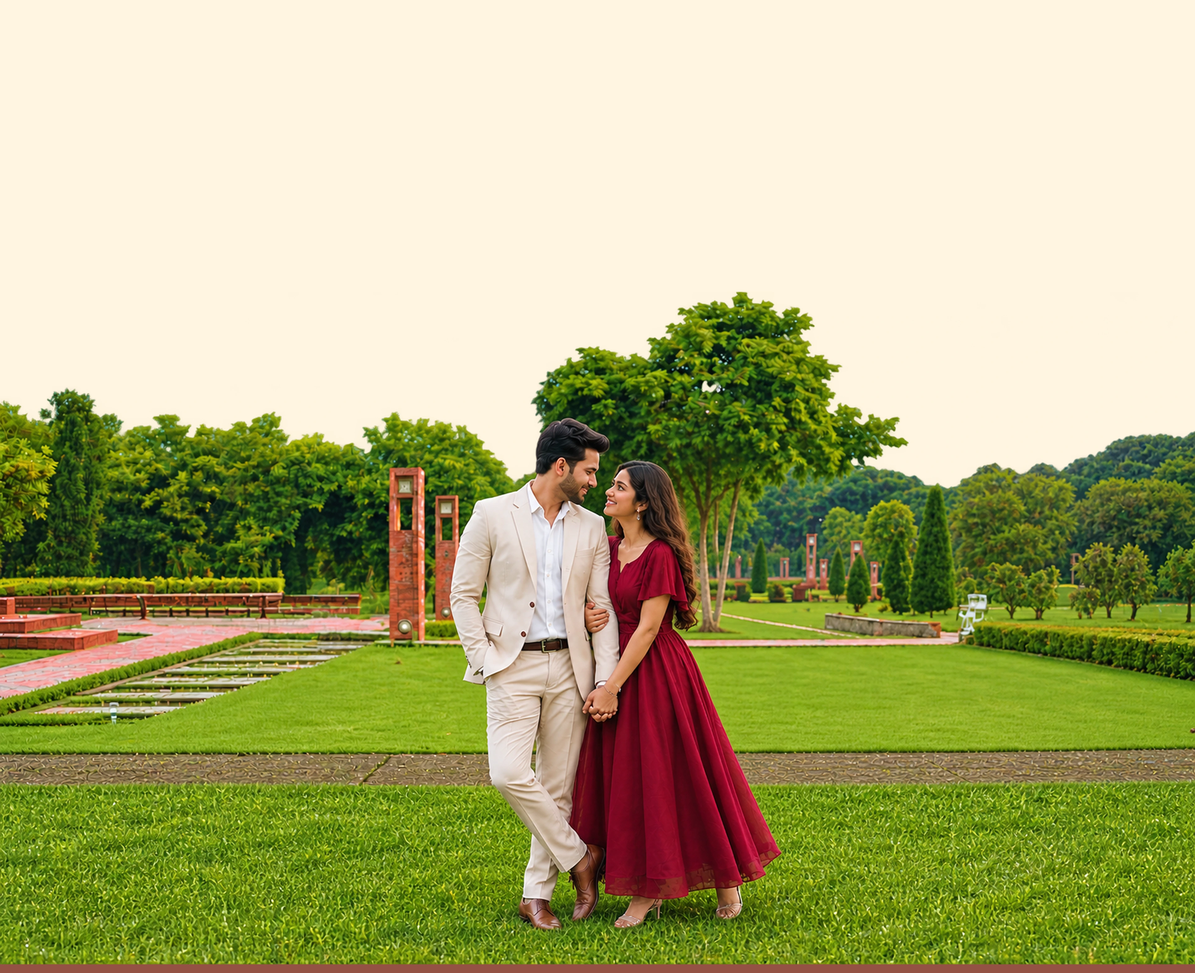
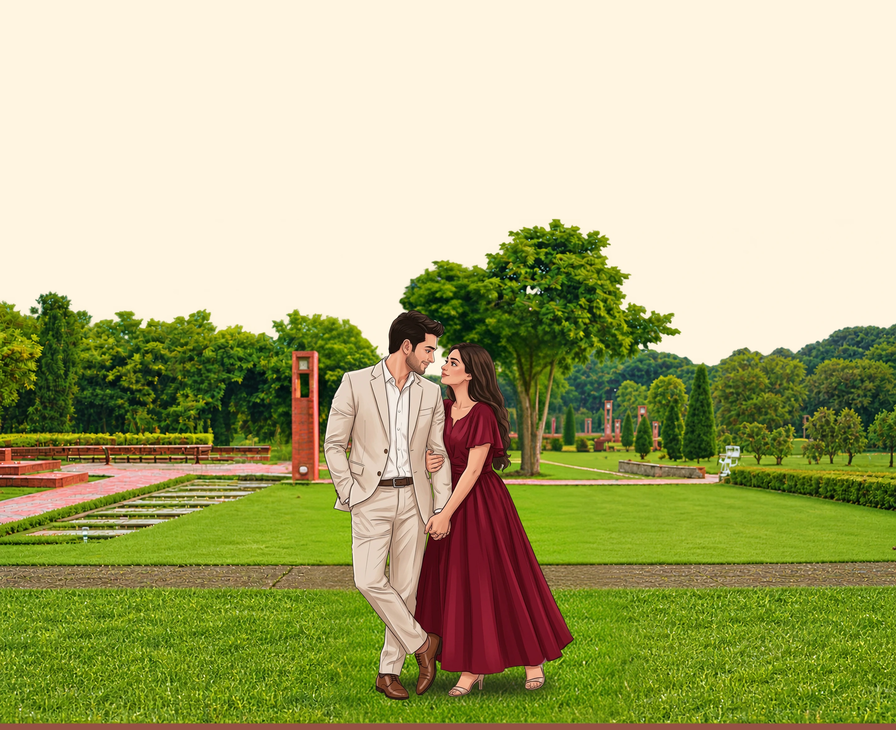
update images and content

Changed region(s): [[0.3125, 0.3734, 0.7188, 0.9957]]

diff --git a/app/components/CoupleIntro.jsx b/app/components/CoupleIntro.jsx
@@ -4,14 +4,17 @@ import RoseHeroTemp from "@/app/components/RoseHeroTemp";
 
 export default function CoupleIntro() {
   const events = [
-
     {
       title_ceremony: "Haldi",
       image: "/assets/haldi.webp",
       date: "Wednesday, November 25th 2026",
       time: "at 11:30 AM",
       venue: "Bel-La Monde",
-      venue_address: <>NH309, Ramnagar, Dhikuli, Garjiya, <br/> Uttarakhand 244715</>,
+      venue_address: (
+        <>
+          NH309, Ramnagar, Dhikuli, Garjiya, <br /> Uttarakhand 244715
+        </>
+      ),
       link: "https://maps.app.goo.gl/HRMYY5gNt4RnpmKn6",
     },
 
@@ -21,7 +24,11 @@ export default function CoupleIntro() {
       date: "Wednesday, November 25th 2026",
       time: "at 4:00 PM",
       venue: "Bel-La Monde",
-      venue_address: <>NH309, Ramnagar, Dhikuli, Garjiya, <br/> Uttarakhand 244715</>,
+      venue_address: (
+        <>
+          NH309, Ramnagar, Dhikuli, Garjiya, <br /> Uttarakhand 244715
+        </>
+      ),
       link: "https://maps.app.goo.gl/HRMYY5gNt4RnpmKn6",
     },
 
@@ -31,18 +38,25 @@ export default function CoupleIntro() {
       date: "Wednesday, November 25th 2026",
       time: "at 6:00 PM",
       venue: "Bel-La Monde",
-      venue_address: <>NH309, Ramnagar, Dhikuli, Garjiya, <br/> Uttarakhand 244715</>,
+      venue_address: (
+        <>
+          NH309, Ramnagar, Dhikuli, Garjiya, <br /> Uttarakhand 244715
+        </>
+      ),
       link: "https://maps.app.goo.gl/HRMYY5gNt4RnpmKn6",
     },
 
-    
     {
       title_ceremony: "Tika & Ghudchadi",
       image: "/assets/tika.webp",
       date: "Thursday, November 26th 2026",
       time: "at 10:00 AM",
       venue: "Bel-La Monde",
-      venue_address: <>NH309, Ramnagar, Dhikuli, Garjiya, <br/> Uttarakhand 244715</>,
+      venue_address: (
+        <>
+          NH309, Ramnagar, Dhikuli, Garjiya, <br /> Uttarakhand 244715
+        </>
+      ),
       link: "https://maps.app.goo.gl/HRMYY5gNt4RnpmKn6",
     },
 
@@ -52,7 +66,11 @@ export default function CoupleIntro() {
       date: "Thursday, November 26th 2026",
       time: "at 1:00 PM",
       venue: "Bel-La Monde",
-      venue_address: <>NH309, Ramnagar, Dhikuli, Garjiya, <br/> Uttarakhand 244715</>,
+      venue_address: (
+        <>
+          NH309, Ramnagar, Dhikuli, Garjiya, <br /> Uttarakhand 244715
+        </>
+      ),
       link: "https://maps.app.goo.gl/HRMYY5gNt4RnpmKn6",
     },
 
@@ -62,11 +80,13 @@ export default function CoupleIntro() {
       date: "Thursday, November 26th 2026",
       time: "at 5:00 PM",
       venue: "Bel-La Monde",
-      venue_address: <>NH309, Ramnagar, Dhikuli, Garjiya, <br/> Uttarakhand 244715</>,
+      venue_address: (
+        <>
+          NH309, Ramnagar, Dhikuli, Garjiya, <br /> Uttarakhand 244715
+        </>
+      ),
       link: "https://maps.app.goo.gl/HRMYY5gNt4RnpmKn6",
     },
-
-    
   ];
 
   return (
@@ -101,7 +121,8 @@ export default function CoupleIntro() {
               className="w-16 h-16 md:w-25 md:h-24 lg:w-49 lg:h-47 mt-2 lg:mt-4"
             />
             <h2 className="font-eb-garamond font-medium text-base md:text-2xl lg:text-3xl mt-2 md:mt-0 text-[#B35800]">
-              With the heavenly blessings of <br/> Late Smt Kamla Devi & Late Shri Gainda Lal Agarwal
+              With the heavenly blessings of <br /> Late Smt Kamla Devi & Late
+              Shri Gainda Lal Agarwal
             </h2>
             {/* <hr className="w-20 lg:w-26 lg:border-2 my-3 lg:my-4 border-[#B35800]" /> */}
             {/* <h2 className="font-eb-garamond font-medium text-xl md:text-3xl lg:text-[42px] text-[#B35800]">
@@ -109,17 +130,18 @@ export default function CoupleIntro() {
             </h2> */}
           </div>
           <div className="text-center mt-8">
-            <h2 className="font-playfair-display font-semibold text-3xl md:text-4xl lg:text-6xl leading-tight lg:tracking-wide tracking-wider text-[#B35800] italic">
+            {/* <h2 className="font-playfair-display font-semibold text-3xl md:text-4xl lg:text-6xl leading-tight lg:tracking-wide tracking-wider text-[#B35800] italic">
               Invite
-            </h2>
-            <p className="font-eb-garamond font-medium text-xl md:text-2xl lg:text-3xl mt-4 md:mt-6 text-[#B35800]">
-              You to join us for the wedding celebrations of
+            </h2> */}
+            <p className="font-eb-garamond font-medium text-xl md:text-2xl lg:text-3xl mt-4 md:mt-6 text-[#B35800] px-6 md:px-0">
+              We Invite you and your Family to join us for the wedding
+              celebrations of
             </p>
             <h2 className="font-eb-garamond font-medium text-center text-5xl md:text-6xl lg:text-[100px] mt-6 leading-8 md:leading-tight text-[#B35800]">
               Devansh
             </h2>
-             <h2 className="font-eb-garamond font-medium text-base md:text-2xl lg:text-3xl mt-2 md:mt-0 text-[#B35800]">
-             (Dr. Preeti Agarwal & Dr. T.C. Agarwal)
+            <h2 className="font-eb-garamond font-medium text-base md:text-2xl lg:text-3xl mt-2 md:mt-0 text-[#B35800]">
+              (Son of Dr. Preeti Agarwal & Dr. T.C. Agarwal)
             </h2>
             <h2 className="font-playfair-display font-medium text-5xl md:text-6xl lg:text-[100px] text-center mt-4 leading-tight text-[#B35800]">
               <span className="text-center mt-4 lg:mt-10 text-5xl md:text-6xl lg:text-[100px] leading-tight text-[#B35800] font-playfair-display">
@@ -129,10 +151,10 @@ export default function CoupleIntro() {
               Ishita
             </h2>
             <h2 className="font-eb-garamond font-medium text-base md:text-2xl lg:text-3xl mt-2 md:mt-0 text-[#B35800]">
-             (Mrs. Shalini Agarwal & Mr. Vivek Agarwal)
+              (Daughter of Mrs. Shalini Agarwal & Mr. Vivek Agarwal)
             </h2>
 
-{/* <p className="font-eb-garamond font-medium text-base md:text-xl lg:text-3xl mt-12 text-[#B35800]">
+            {/* <p className="font-eb-garamond font-medium text-base md:text-xl lg:text-3xl mt-12 text-[#B35800]">
               At the Marriott Jim Corbett
               <br/>
                <a
@@ -147,8 +169,6 @@ export default function CoupleIntro() {
             <p className="font-eb-garamond font-medium text-base md:text-xl lg:text-3xl mt-12 text-[#B35800]">
               On the following events
             </p>
-
-            
           </div>
 
           <div className="flex justify-center mt-15 md:mt-20">
@@ -158,7 +178,7 @@ export default function CoupleIntro() {
                   <img
                     src={event.image}
                     alt={event.venue}
-                    className="w-95 h-auto md:w-76 lg:w-80"
+                    className="w-80 h-auto md:w-76 lg:w-80"
                   />
 
                   <h2 className="font-playfair-display font-medium text-[36px] md:text-3xl lg:text-[42px] mt-2 md:mt-4 text-[#B35800]">
@@ -167,20 +187,39 @@ export default function CoupleIntro() {
                   <p className="font-eb-garamond font-medium md:mt-2 text-[#B35800] text-lg">
                     <span className="text-base">{event.date}</span> <br />
                     <span className="text-base"> {event.time} </span> <br />
-                    <span className="text-base uppercase"> {event.venue} </span> <br/>
+                    {/* <span className="text-base uppercase"> {event.venue} </span> <br/>
                     <span className="text-base uppercase"> {event.venue_address} </span> <br/>
                      <a
                     href={event.link}
                     className="font-eb-garamond font-medium text-[#B35800] underline text-lg md:text-sm mt-2"
                     target="_blank">
                     View Directions
-                  </a>
+                  </a> */}
                   </p>
-
-                  
                 </div>
               ))}
             </div>
+          </div>
+
+          <div className="flex justify-center items-center">
+            <p className="font-eb-garamond font-medium md:mt-10 text-[#B35800] text-lg text-center mt-10">
+              <h2 className="font-playfair-display font-medium text-[36px] md:text-3xl lg:text-[42px] mt-2 md:mt-4 text-[#B35800]">
+                Venue
+              </h2>
+              <span className="text-base uppercase">Bel-La Monde </span> <br />
+              <span className="text-base uppercase">
+                NH309, Ramnagar, Dhikuli, Garjiya, <br /> Uttarakhand
+                244715{" "}
+              </span>{" "}
+              <br />
+              <a
+                href="https://maps.app.goo.gl/HRMYY5gNt4RnpmKn6"
+                className="font-eb-garamond font-medium text-[#B35800] underline text-lg md:text-sm mt-2"
+                target="_blank"
+              >
+                View Directions
+              </a>
+            </p>
           </div>
         </div>
       </div>

diff --git a/app/components/CoupleMessage.jsx b/app/components/CoupleMessage.jsx
@@ -69,8 +69,8 @@ useEffect(() => {
 
   return (
     <div className="bg-[url('/assets/bg_three.webp')] bg-cover bg-no-repeat">
-      <div className="flex flex-col items-center h-640 md:h-770 lg:h-1200 3xl:h-1200">
-        <h2 className="font-playfair-display font-semibold text-base md:text-xl lg:text-[38px] text-center pt-12 md:pt-18 lg:pt-32 text-[#B35800]">
+      <div className="flex flex-col items-center h-500 md:h-550 lg:h-800 3xl:h-800">
+        {/* <h2 className="font-playfair-display font-semibold text-base md:text-xl lg:text-[38px] text-center pt-12 md:pt-18 lg:pt-32 text-[#B35800]">
           INTRODUCING
         </h2>
         <h2
@@ -78,8 +78,8 @@ useEffect(() => {
                                mt-12 md:mt-16 lg:mt-28 leading-7 md:leading-8 lg:leading-8 text-[#B35800]"
         >
           The Couple
-        </h2>
-        <div className="flex gap-2 mt-6 md:mt-8 lg:mt-12">
+        </h2> */}
+        {/* <div className="flex gap-2 mt-6 md:mt-8 lg:mt-12">
           <hr className="w-10 lg:w-20 md:border my-3 md:my-6 border-[#B35800]" />
           <img
             src="/assets/icon.webp"
@@ -87,12 +87,12 @@ useEffect(() => {
             className="w-6 h-6 lg:w-6 lg:h-6 md:mt-3"
           />
           <hr className="w-10 lg:w-20 md:border my-3 md:my-6 border-[#B35800]" />
-        </div>
+        </div> */}
 
     <div className="relative w-full flex justify-center items-center mt-6 md:mt-8">
 
   {/* IMAGE WINDOW / CLIPPING AREA */}
-  <div
+  {/* <div
     className="
       absolute
       z-0
@@ -153,10 +153,10 @@ useEffect(() => {
         </SwiperSlide>
       ))}
     </Swiper>
-  </div>
+  </div> */}
 
   {/* FRAME - ALWAYS ON TOP */}
-  <img
+  {/* <img
     src="/assets/couple_img_n.webp"
     alt="couple_img"
     className="
@@ -174,7 +174,7 @@ useEffect(() => {
       lg:mt-0
       object-contain
     "
-  />
+  /> */}
 
 </div>
 
@@ -261,12 +261,13 @@ useEffect(() => {
               href="https://wa.me/919412386468"
               target="_blank"
               rel="noopener noreferrer"
+              className="flex items-center md:gap-4 gap-2"
             >
               <img
                 src="/assets/whatsapp.webp"
                 alt="WhatsApp"
                 className="w-7.5 h-7.5 md:w-11.25 md:h-11.25 lg:w-15 lg:h-15 mt-2 lg:mt-3"
-              />
+              /> <span className="font-eb-garamond font-semibold text-center text-xs md:text-sm lg:text-2xl mt-2 lg:mt-4 text-[#B35800]">Dr. TC Agarwal</span>
             </a>
             
           </div>
